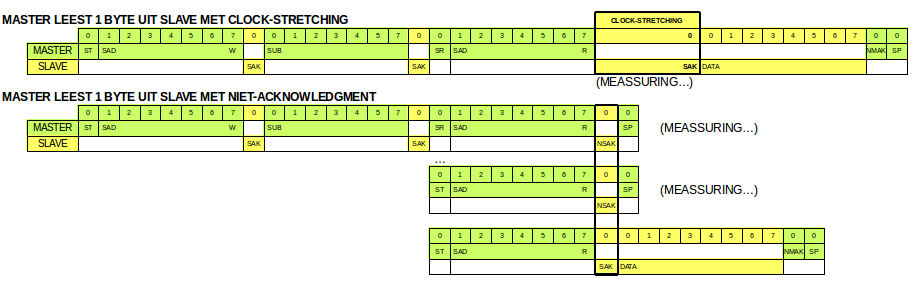
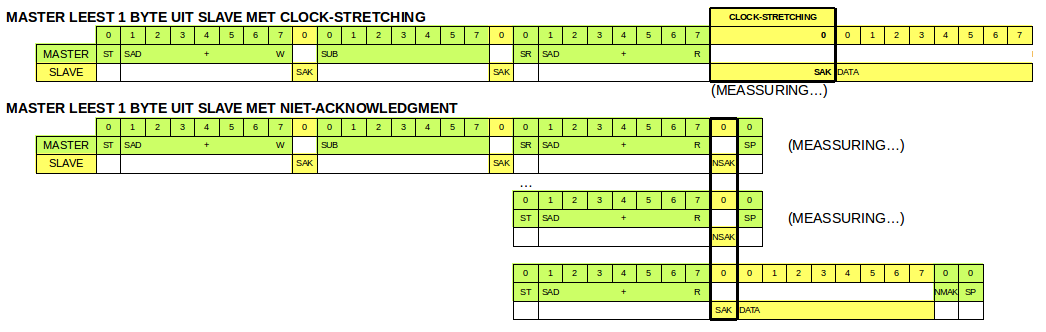
i2c examples added

Changed region(s): [[0.0, 0.3077, 0.9476, 0.979], [0.0, 0.0, 1.0, 0.3077]]

diff --git a/nl/protocols/protocol_I2C.md b/nl/protocols/protocol_I2C.md
@@ -3,19 +3,19 @@
 I2C is (net zoals SPI) een serieel synchroon (werkt met clock) protocol, het is relatief goedkoop en is low-speed (100 kbps in standard mode, and 400 kbps in fast mode).  
 I2C (beheerd door NXP) wordt ook wel officieus TWI genoemd (Two Wire Interface).
 
-### Busprotocol
+### Duiding: i2c is busprotocol
 
 Samengevat, I2C is een **busprotocol**:
 
 * Je kan 1 (of eventueel meerdere) MCU of besturings-apparaten aan sluiten.  
   Deze noemen we **master(s)**
-* Je kan 1 of meerdere meerdere devices (sensors, led-schermen, ...) aansluiten, deze noemen we **slaves** 
+* Je kan 1 of meerdere meerdere devices (sensors, led-schermen, ...) aansluiten.  
+  Deze noemen we **slaves**  
+* Een MCU of ander device kan eventueel zowel slave als master spelen.  
 * Elke slave heeft een adres van 7 bits lengte (range 0-127), in uitgebreide versie kan dit 10 bit zijn
 * Alle data- en (klok-)communicatie gebeurt **serieel** over **2 draden** (naast VCC en GND)
 
-
-
-### Bidirectionaliteit
+### Duiding: Bidirectionaliteit
 
 Deze 2 draden – SDA (seriele data) en SCL (seriele clock) – zijn bidirectioneel.  
 Zowel de transmissie van de master naar slave als het antwoord van de slave(s) naar de master worden gedeeld over dezelfde (SDA) data-lijn (dit in tegenstelling tot SPI die voor beide richtingen een data-lijn nodig heeft).  
@@ -30,7 +30,7 @@ Beide draden (SDA en SCL) moeten verbonden aan een positieve spannings-bron via 
 Deze open-collector-pins op de IC kunnen de spanning naar beneden trekken door (principe van open collector via een transistor  zoals de tekening hierboven) stroom te trekken via deze pull-up weerstand.  
 Wanneer deze interne transistor echter gesloten wordt zal de spanning natuurlijk hoog blijven (tenzij een andere aangesloten IC deze naar beneden trekt.
 
-### Transactie
+### Duiding: Transactie (of pakketten) in i2c
 
 Bij niet-activiteit (idle) blijven deze lijnen dus hoog, een master kan echter een “I2C-transactie” initieren door:
  
@@ -40,7 +40,8 @@ Bij niet-activiteit (idle) blijven deze lijnen dus hoog, een master kan echter e
 ![Start transactie](../../pictures/i2c_start_transaction.png)
 
 Dit signaleert alle ontvangers op de de bus dat een transmissie van een pakket zal starten.  
-Wanneer dan SCL laag is zal de master over SDA de eerste bit overbrengen (laag of hoog). Dit wordt de **start conditie** genoemd.    
+Wanneer dan SCL laag is zal de master over SDA de eerste bit overbrengen (laag of hoog). Dit wordt de **start-conditie** genoemd.    
+
 Elke bit die daarna wordt verzonden over de SDA-lijn wordt gesampled op de stijgende flank van de clock (SDA mag dan enkel wijzigen bij de volgende stijgende flank).   
 Deze transactie wordt beëindigd via een **stop-conditie**:  
 
@@ -51,8 +52,12 @@ Deze transactie wordt beëindigd via een **stop-conditie**:
 
 Door dit **aankondiging-systeem** kunnen er zich ook meerdere masters zich bevinden op deze ```I2C```-bus, bij gelijktijdig gebruik zal de bus die de lijn hoog wil laten maar laag wordt getrokken zijn transactie stoppen en een error-conditie genereren.
 
+Als je meer informatie wenst over het low-level gedeelte van i2c:
 
-### Bytes
+* http://i2c.info/i2c-bus-specification
+* http://www.nxp.com/documents/user_manual/UM10204.pdf
+
+### Duiding: Structuur van een bytes i2c
 
 I2C stuurt bytes door:
 
@@ -64,7 +69,7 @@ Deze **ACK** – dit is eigenlijk de 9ste bit –  wordt bereikt door – na de 
  
 Als deze receiver de lijn laag trekt wordt dit dan gezien als een **acknowledgment** (of bevestiging van ontvangst), zoniet wordt de transactie afgebroken (error).  
 
-#### Boodschap of pakket-transmissie
+### Duiding: Adres-byte i2c
 
 Een ```I2C```-boodschap (transcactie) bestaat uit meerdere bytes.  
 De eerste byte van een ```I2C```-boodschap is een de adres-byte die bestaat uit:  
@@ -78,9 +83,9 @@ De eerste byte van een ```I2C```-boodschap is een de adres-byte die bestaat uit:
 
 Na deze eerste **adres-byte** volgt er een dataframe waarbij de ontvanger (slave bij '0' en master bij '1') elke byte zal bevestigen tot dat we aan de stop-conditie komen.
 
-### Illustratie
+### Voorbeeld: Osciloscoop ter illustratie
 
-Ter illustratie zie je hieronder zo'n communicatie tussen master en slave:
+Ter illustratie van deze byte zie je hieronder zo'n communicatie tussen master en slave op de osciloscoop:
 
 ![](../../pictures/avr_i2c_trace.png)
 
@@ -89,25 +94,282 @@ Ter illustratie zie je hieronder zo'n communicatie tussen master en slave:
 * Data wordt gewijzigd op de lage klok
 * Je zien een aantal bredere lage klokken, deze komen voor bij de start van elke byte
 
+### Duiding: Basis-commando's
+
+Hieronder een overzicht van de meest relevante commando's gekend uit i2c (en die een MCU ter beschikking stelt)
+
+**ST:**
+
+* **St**art-conditie (zie eerder)
+* Kondigt de start van een pakket aan
+
+**SP:**
+
+* Stop bit (zie eerder)
+* Kondigt het einde van een pakket aan
+
+**SR:**
+
+* Herhaalde **s**tart (**r**epeated start)
+* Idem aan ST maar wordt uitgevoerd direct na een transactie (zonder dat er een SP was)
+* Kondigt een nieuw pakket aan 
+
+**SAD + R:**
+
+* **S**lave **Ad**ress **R**ead
+* Samengesteld uit een adres van 7 bits gevolg door 1 (read)
+* Volgt op ST of SR
+* Kondigt aan dat de master data van een sensor wil lezen 
+
+**SAD + W:**
+
+* **S**lave **Ad**ress **W**rite
+* Samengesteld uit een adres van 7 bits gevolg door 0 (read)
+* Volgt op ST of SR
+* Kondigt aan dat de master data van een sensor wil lezen 
+
+**SUB:**
+
+* *Sub**-adres
+* Byte 
+* Volgt op een SAD
+* Wordt gebruikt 
+     * als commmando voordat de read wordt geinitieerd (start meting bijvoorbeeld)
+     * als register-adres bij de slave (een bepaalde waarde of configuratie)
+
+**DATA:**
+
+* Data die wordt getransfereerd
+* Byte 
+* Volgt op een SUB bij write of rechtstreeks na de een SAD+R bij een read
+* Data-transfert 
+
+**SAK:** 
+
+* **S**lave **A**C**K** van client
+* 1 bit met waarde 0
+* Na een write van de master
+* Bevestigd goede ontvangst van de sensor
+
+**SNAK:**
+
+* **S**lave **NA**C**K** van client
+* 1 bit met waarde 1
+* Na een write van de master
+* Indiceert dat de slave niet klaar is om data te leveren  
+ 
+**MAK:** 
+
+* **M**aster **A**C**K** van master
+* 1 bit met waarde 0
+* Na het uitlezen van de slave
+* Indiceert dat nog een byte moet gelezen worden
+
+**NMAK:**
+
+* **M**aster **NA**C**K** van master
+* 1 bit met waarde 0
+* Na het uitlezen van de slave
+* Indiceert dat geen byte moet gelezen worden
+
+### Duiding: Gebruik van i2c-commando's
+
+Deze basis-commando's vallen (in de meeste gevallen) in de meeste gevallen terug in de volgende scenario's:
+
+![](../../pictures/i2c_scenarios.png)
+
+**Master verzendt (1 of meerdere bytes) naar slave: **
+
+* Aankondigen van de zending (ST - SAD+w)
+* De eerste data SUB is het type van data (of code van register)
+* Dan volgt 1 of meerdere bytes, waarbij de slave geacht wordt een SAK te signaleren
+* De transactie eindigt met een stop-conditie (SP)
+
+**Master wil een (1 of meerdere bytes) van slave:**
+
+* Gaat meestal vooraf met het aanvragen van data
+* Dit gebeurt zoals een andere write maar dan met enkel een SUB
+* Vervolgens wordt een SR gegenereerd door de master om de data uit te lezen
+* Daarna genereert de slave een SAK
+* De master zal elke byte bevestigen met een MAK
+* Wanneer geen data meer nodig (of verwacht) is zal deze MNAK genereren en afsluiten met een SP
+
+### Duiding: Clock-stretching (en alternatieven)
+
+Een problematiek die voorkomt bij sensors of andere actuators is dat deze tijd nodig hebben om een meting uit te voeren (de ene wat meer als de andere).  
+Dit houdt in dat het uitlezen van de bytes (na het uitsturen van meetcommando) niet direct kan worden geleverd.  
+
+Om dit op te lossen zijn er 2 belangrijke strategien voorzien:
+
+* **Clock-stretching:**  
+  De slave zal na de instructie en tijdens het lezen de communicatie uitstellen/vertragen door de klok (SCL) naar beneden te "trekken".   
+  Dit zorgt ervoor dat er geen data moet verstuurd worden (zolang klok laag is) en de device/sensor/actuator zijn meting kan uitvoeren.  
+  (Nota: i2c voorziet geen time-outs maar dat is wel best te voorzien als je met i2c werkt)  
+  (Nota: men noemt dit ook clock-synchronization)
+* **Werken met non-ack van de slave uit:**  
+  De slave zal dan na de SAD+R laten weten dat de data nog niet gereed is door een NSAK.  
+  Het is de bedoeling dat je aan de kant van een MCU een timer gebruikt en eventueel retries voorziet ...
+  (in de datasheet staat meestal gedocumenteerd hoe lang je moet lezen)
+
+![](../../pictures/avr_clockstretching_and_alternative.png)
 
 ### Voorbeeld: lezen van sensor-waarde (met clock-stretching)
 
-Een typisch gebruik van ```I2C``` is het uitlezen van een sensor.  
-Het lezen van sensor-waardes gebeurt meestal met de volgende sequenties:
-
-* **Activeren** van een **meting**:  
-  Dit is een schrijf-actie van de master
-* **Uitlezen** van de **meting**:  
-  Dit is een read-actie van de master
-
+Een typisch gebruik van clock-streching is het uitlezen van een sensor.   
 De sensor kan meestal - na het activeren van deze meting - niet direct antwoorden.  
-Dit houdt in dat tussen de activitie (of triggering) en het uitlezen een zekere tijd kan zitten (dit kan afhankelijk van de sensor tot aan de grootorde van 100 ms komen).  
 
-Een eerste techniek die kan gebruikt worden is wat we noemen clock-stretching, dit houdt in dat bij het starten van de lees-transactie de sensor de klok-lijn laag forceert totdat de data beschikbaar is:
+Hieronder zie je 2 extracten uit de datasheet van de Sensirion SHT21 (een sensor die temperatuur en relatieve vochtigheid opmeet.  
+Deze sensor supporteert beide mogelijkheden:
+
+**Clock-streching:**  
 
 ![](../../pictures/avr_clock_stretching.png)
 
-Een alternatieve oplossing is dat de sensor een **nack** zal uitsturen bij het uitlezen totdat de data beschikbaar is:
+**Werken met NACK vanuit slave:**  
 
 ![](../../pictures/avr_polling.png)
 
+### Duiding: TWI op de AVR
+
+AVR geeft vanzelfsprekend support voor i2c, hoewel dat je deze naam niet zal terugvinden in de datasheet.  
+De naam die AVR gebruikt is TWI, wat staat voor "two wire interface".  
+Dit is zo omdat NXP (vroeger deel van Philips) licentie-kosten vereist voor het gebruik van de naam ```I2C```
+
+### Duiding: TWI-registers op de AVR
+
+**TWCR: (control register)**  
+Controleert de werking van TWI:
+
+* Inschakelen van TWI
+* Start en stop
+* ACK en NACK
+
+**TWBR: (bit rate register)**  
+
+* Bepaalt de bit-rate voor de master rate volgens de formule
+
+```
+F(scl) = F(cpu) / (16 + (2 * TWBR * prescaler))
+```
+In het hieropvolgend code voorbeeld komt dit neer op +-
+```
+F(scl) = 16Mhz / (16 + (2 * 32 * 1)) = ~229 Mhz 
+```
+
+**TWDR: (data register)**  
+
+* Buffer voor verzonden of ontvangen data  
+* 1 byte lang
+
+**TWSR: (status register)**
+
+* 5 MSB bevatten status
+* 2 LSB kan je gebruiken voor de prescaler (ter aanvulling van bit-rate)
+
+> **Nota:**    
+> Omdat we niet de datasheet willen herhalen laten we het aan de student om de voorgaande principes en code te bekijken aan de hand van de datasheet (MCU en sensor)
+
+### Voorbeeld: voorbeeld-code voor het lezen  
+
+Hieronder hebben een voorbeeld van het gebruik van een sensor, namelijk de SDP600 van sensirion.  
+
+Dit is een sensor die "differential pressure" (luchtverplaatsing) opmeet en zijn resultaat ter beschikking stelf via een ```I2C```-interface.
+
+![](../../pictures/sdp600.jpg)
+
+In dit geval is deze sensor geconnecteerd op een arduino mini pro van 8mHz gezien de sensor op 3.3 v werkt.  
+Dit is het geval voor de meeste sensors dus bij een 5 v MCU is het aangeraden van een "logic convertor" te gebruiken die 5 v-signalen omzet naar 3.3 v en omgekeerd.
+
+Het programma zal de data (buffer) en geconverteerde data daarna doorsturen.  
+
+
+```{.c}
+#include <util/delay.h>
+#include <util/twi.h>
+#include <avr/io.h>
+#include <avr/interrupt.h>
+#include "serieel.h"
+
+#define SCL_PORT    PORTC   
+#define SCL_BIT     PC5
+#define SDA_PORT    PORTC
+#define SDA_BIT     PC4
+
+#define LOOP_TOT_BIT_SET(sfr, bit) do { } while (bit_is_clear(sfr, bit))
+
+#define ADRESS_SDP600                                  0x40
+#define COMMAND_FOR_DIFFERNTIAL_PRESSURE_WITH_HOLD     0xF1
+
+int main(void) {
+    serieel_initialiseer();
+    _delay_ms(11);
+
+    SCL_PORT |= 1 << SCL_BIT;   // pull up op TWI-clock-lijn
+    SDA_PORT |= 1 << SDA_BIT;   // pull up on TWI-data-lijn
+    TWBR = 32;                  // 8MHz / (16+2*TWBR*1) ~= 115kHz
+
+    TWCR |= (1 << TWEN);        //activatie
+
+    while (1) {
+
+        //ST
+        TWCR = ((1 << TWINT) | (1 << TWEN) | (1 << TWSTA));
+        LOOP_TOT_BIT_SET(TWCR, TWINT);
+
+        //SAD+W
+        TWDR = (ADRESS_SDP600 << 1) + 0;
+        TWCR = ((1 << TWINT) | (1 << TWEN));
+        LOOP_TOT_BIT_SET(TWCR, TWINT);
+
+        //SUB
+        TWDR = COMMAND_FOR_DIFFERNTIAL_PRESSURE_WITH_HOLD;
+        TWCR = ((1 << TWINT) | (1 << TWEN));
+        LOOP_TOT_BIT_SET(TWCR, TWINT);
+
+        //RT
+        TWCR = ((1 << TWINT) | (1 << TWEN) | (1 << TWSTA));
+        LOOP_TOT_BIT_SET(TWCR, TWINT);
+
+        //SAD+R
+        TWDR = (ADRESS_SDP600 << 1) + 1;
+        TWCR = ((1 << TWINT) | (1 << TWEN));
+        LOOP_TOT_BIT_SET(TWCR, TWINT);
+
+        unsigned char buffer[3];
+
+        //Leesmodus (met ACK)
+        TWCR = ((1 << TWINT) | (1 << TWEN) | (1 << TWEA));
+        LOOP_TOT_BIT_SET(TWCR, TWINT);
+        buffer[0] = (TWDR);
+
+        //Leesmodus (met ACK)
+        TWCR = ((1 << TWINT) | (1 << TWEN) | (1 << TWEA));
+        LOOP_TOT_BIT_SET(TWCR, TWINT);
+        buffer[1] = (TWDR);
+
+        //Leesmodus (met NACK)
+        TWCR = (1 << TWINT) | (1 << TWEN);
+        LOOP_TOT_BIT_SET(TWCR, TWINT);
+        buffer[2] = (TWDR);
+
+        //omvormen naar sensor-waarde
+        int val;
+        val = buffer[0];
+        val <<= 8;
+        val += buffer[1];
+        val &= 0xFFFC;
+
+        //versturen van de data
+        serieel_verstuur_getal(buffer[0]);
+        serieel_verstuur_string(" - ");
+        serieel_verstuur_getal(buffer[1]);
+        serieel_verstuur_string(" - ");
+        serieel_verstuur_getal(buffer[2]);
+        serieel_verstuur_string(" - ");
+        serieel_verstuur_getal(val);
+        serieel_verstuur_string("\n\r");
+        _delay_ms(1000);
+    }
+    return 0;
+}
+```
